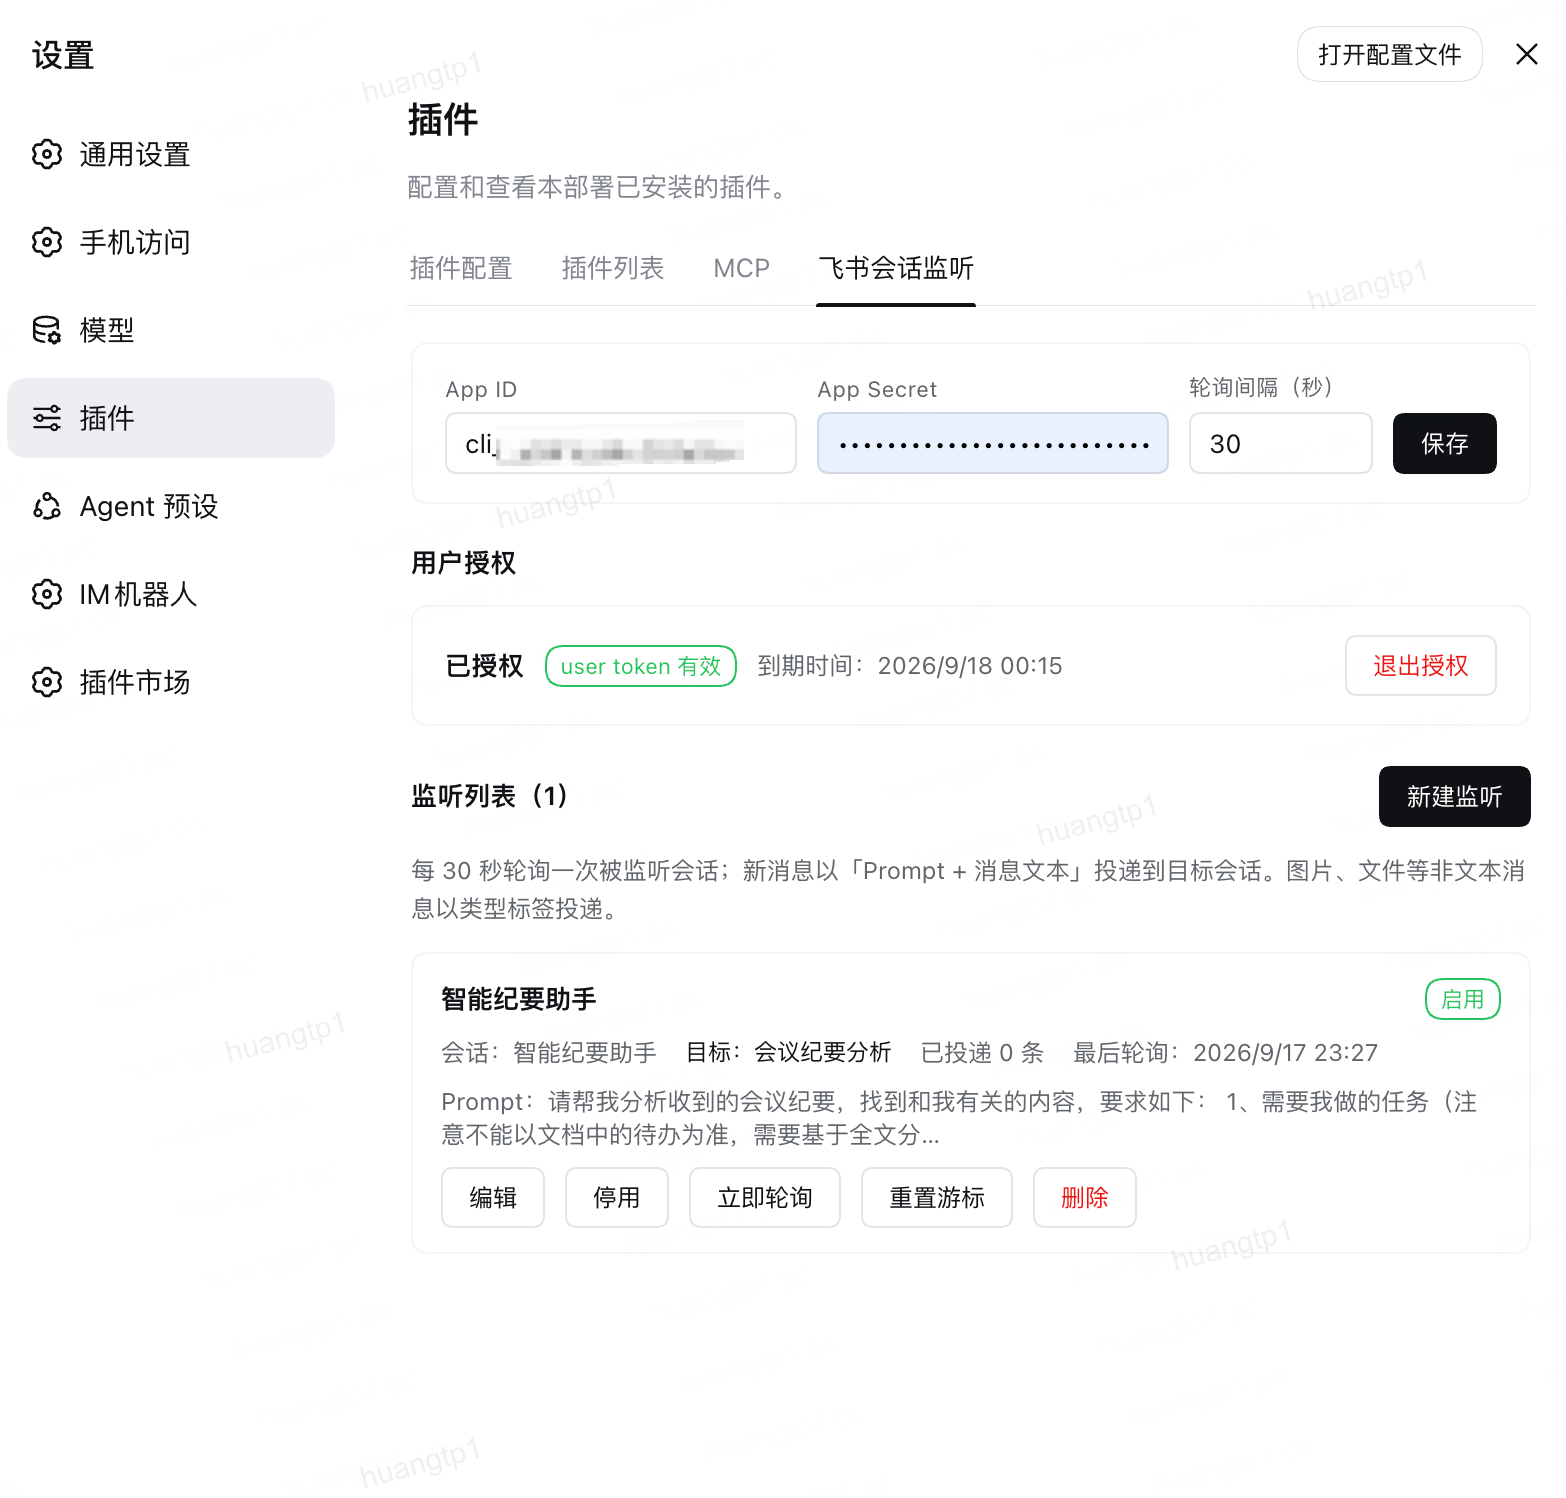
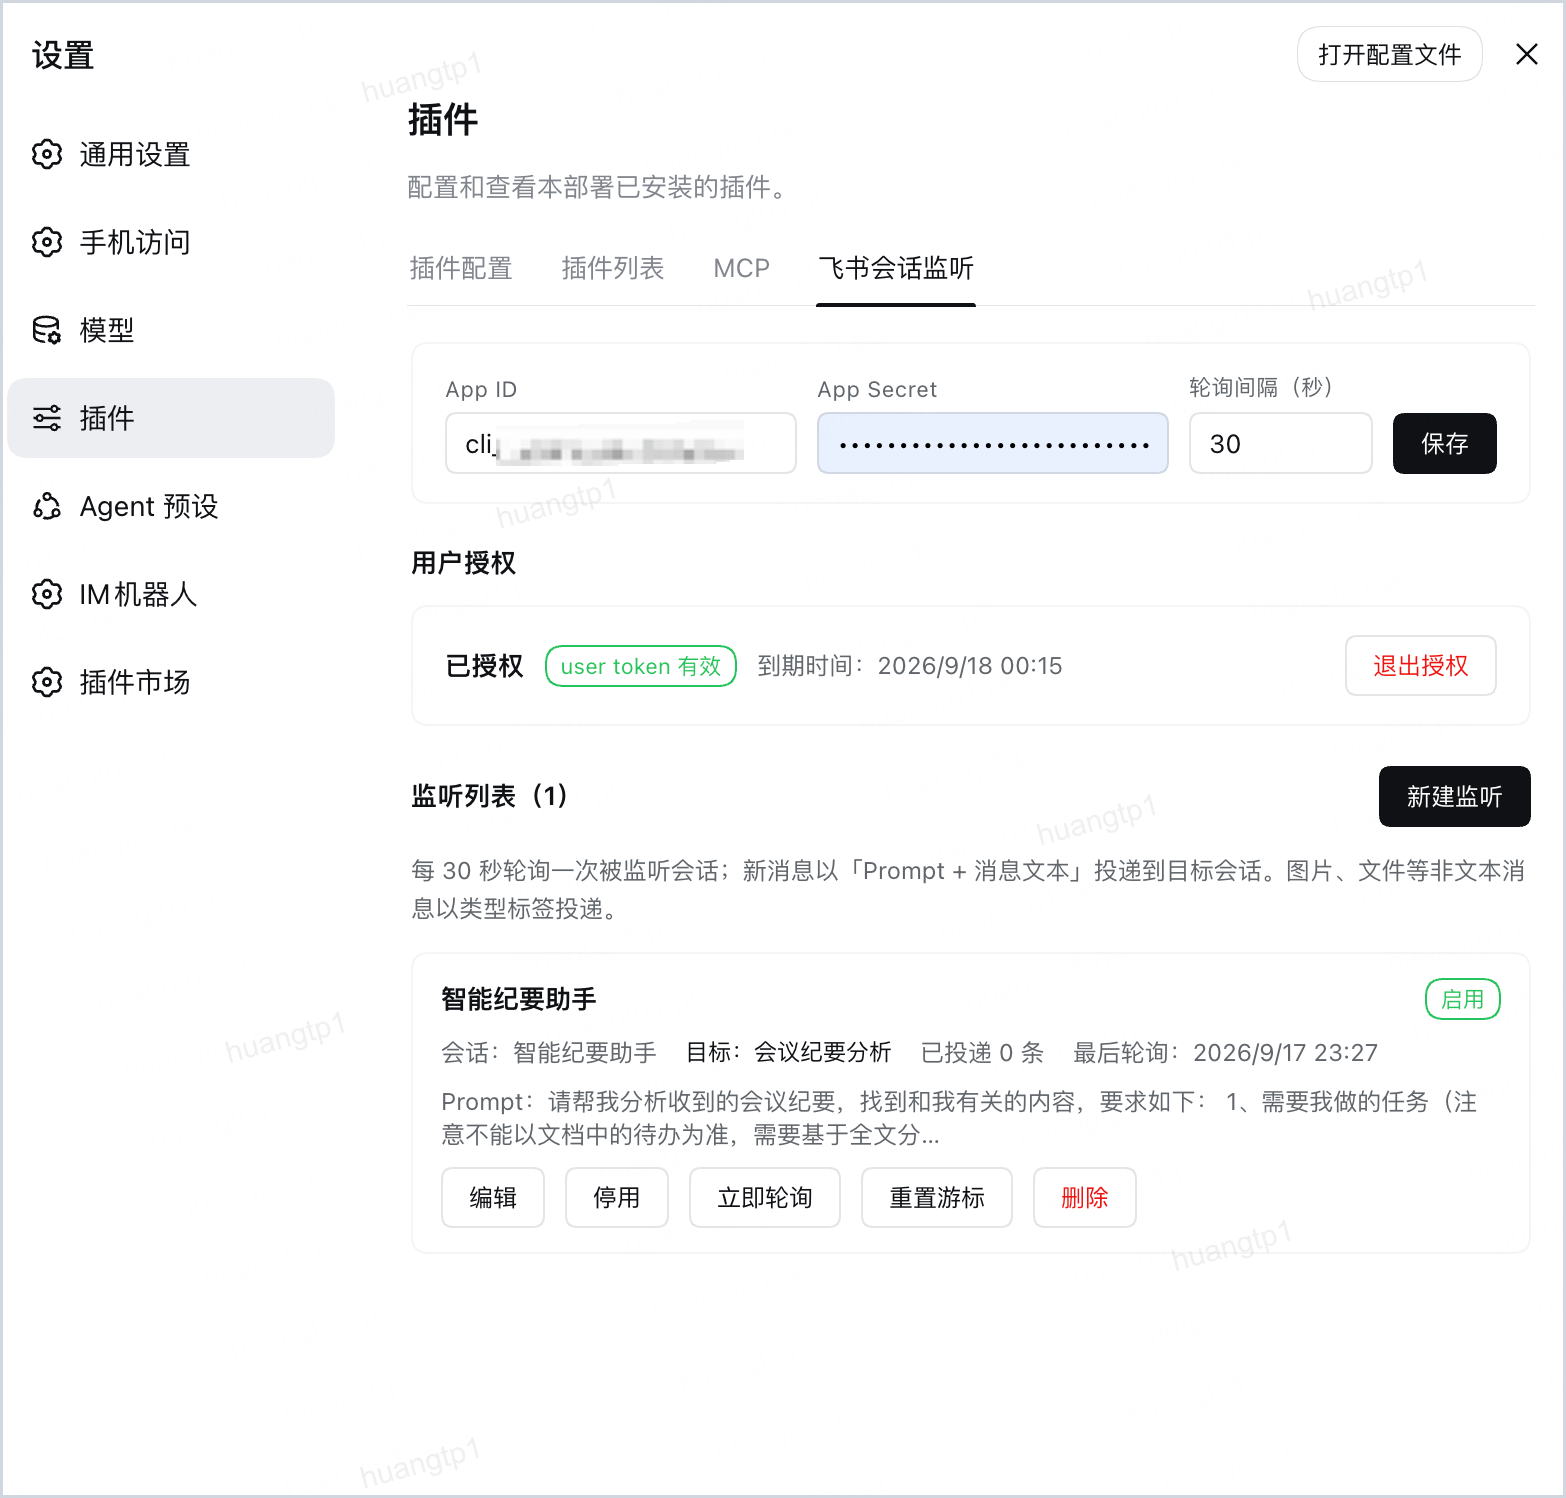
Add a border to the README screenshot
GitHub strips presentational attributes from Markdown, so the border is
drawn into the image pixels rather than written as CSS. Also follow the
image's rename to .png and drop a few more explanatory lines.

Changed region(s): [[0.0, 0.9826, 1.0, 1.0], [0.9808, 0.0, 1.0, 0.0307], [0.0, 0.0, 0.0307, 0.0307]]

diff --git a/README.md b/README.md
@@ -6,7 +6,7 @@
 
 **English** · [简体中文](./README.zh-CN.md)
 
-<img alt="The 飞书会话监听 settings page" src="./docs/setting-page.jpeg" width="820">
+<img alt="The 飞书会话监听 settings page" src="./docs/setting-page.png" width="620">
 
 </div>
 
@@ -14,18 +14,12 @@
 
 A **DeepSeek Harness (DSH)** plugin that reads Feishu conversations with **your own user identity** and delivers new messages as prompts into a DSH session you choose.
 
-Feishu has no user-identity push channel, so it polls.
-
 ## Compatible DSH versions
 
 | DSH version | Status |
 | --- | --- |
 | 0.1.5-rc.1 | **verified** — run in a live Web profile, including a real browser authorization |
 | 0.1.5-rc.2 / 0.1.6-alpha.x | expected to work; every DSH surface this plugin uses is unchanged across that range |
-
-`peerDependencies` admit the `0.1.x` prerelease line and reject `0.2.0` and later.
-
-> npm's `latest` tag for `@deepseek-ai/dsh-*` still points at a stale `0.0.1-rc.1`. Install DSH from `next` or `alpha`.
 
 ## Quick start
 

diff --git a/README.zh-CN.md b/README.zh-CN.md
@@ -6,7 +6,7 @@
 
 [English](./README.md) · **简体中文**
 
-<img alt="「飞书会话监听」设置页" src="./docs/setting-page.jpeg" width="820">
+<img alt="「飞书会话监听」设置页" src="./docs/setting-page.png" width="620">
 
 </div>
 
@@ -14,7 +14,6 @@
 
 一个 **DeepSeek Harness (DSH)** 插件，以**你本人的用户身份**读取飞书会话，把新消息作为 prompt 投递到你指定的 DSH 会话。
 
-飞书没有用户身份的推送通道，因此采用轮询。
 
 ## 兼容的 DSH 版本
 
@@ -22,10 +21,6 @@
 | --- | --- |
 | 0.1.5-rc.1 | **已实测** — 在真实 Web profile 中运行，含浏览器端的真实授权 |
 | 0.1.5-rc.2 / 0.1.6-alpha.x | 预期可用；本插件使用的 DSH 接口在该区间内未变化 |
-
-`peerDependencies` 接受 `0.1.x` 预发布线，拒绝 `0.2.0` 及以后版本。
-
-> `@deepseek-ai/dsh-*` 在 npm 上的 `latest` 标签仍指向过期的 `0.0.1-rc.1`，请从 `next` 或 `alpha` 安装 DSH。
 
 ## 快速开始
 
